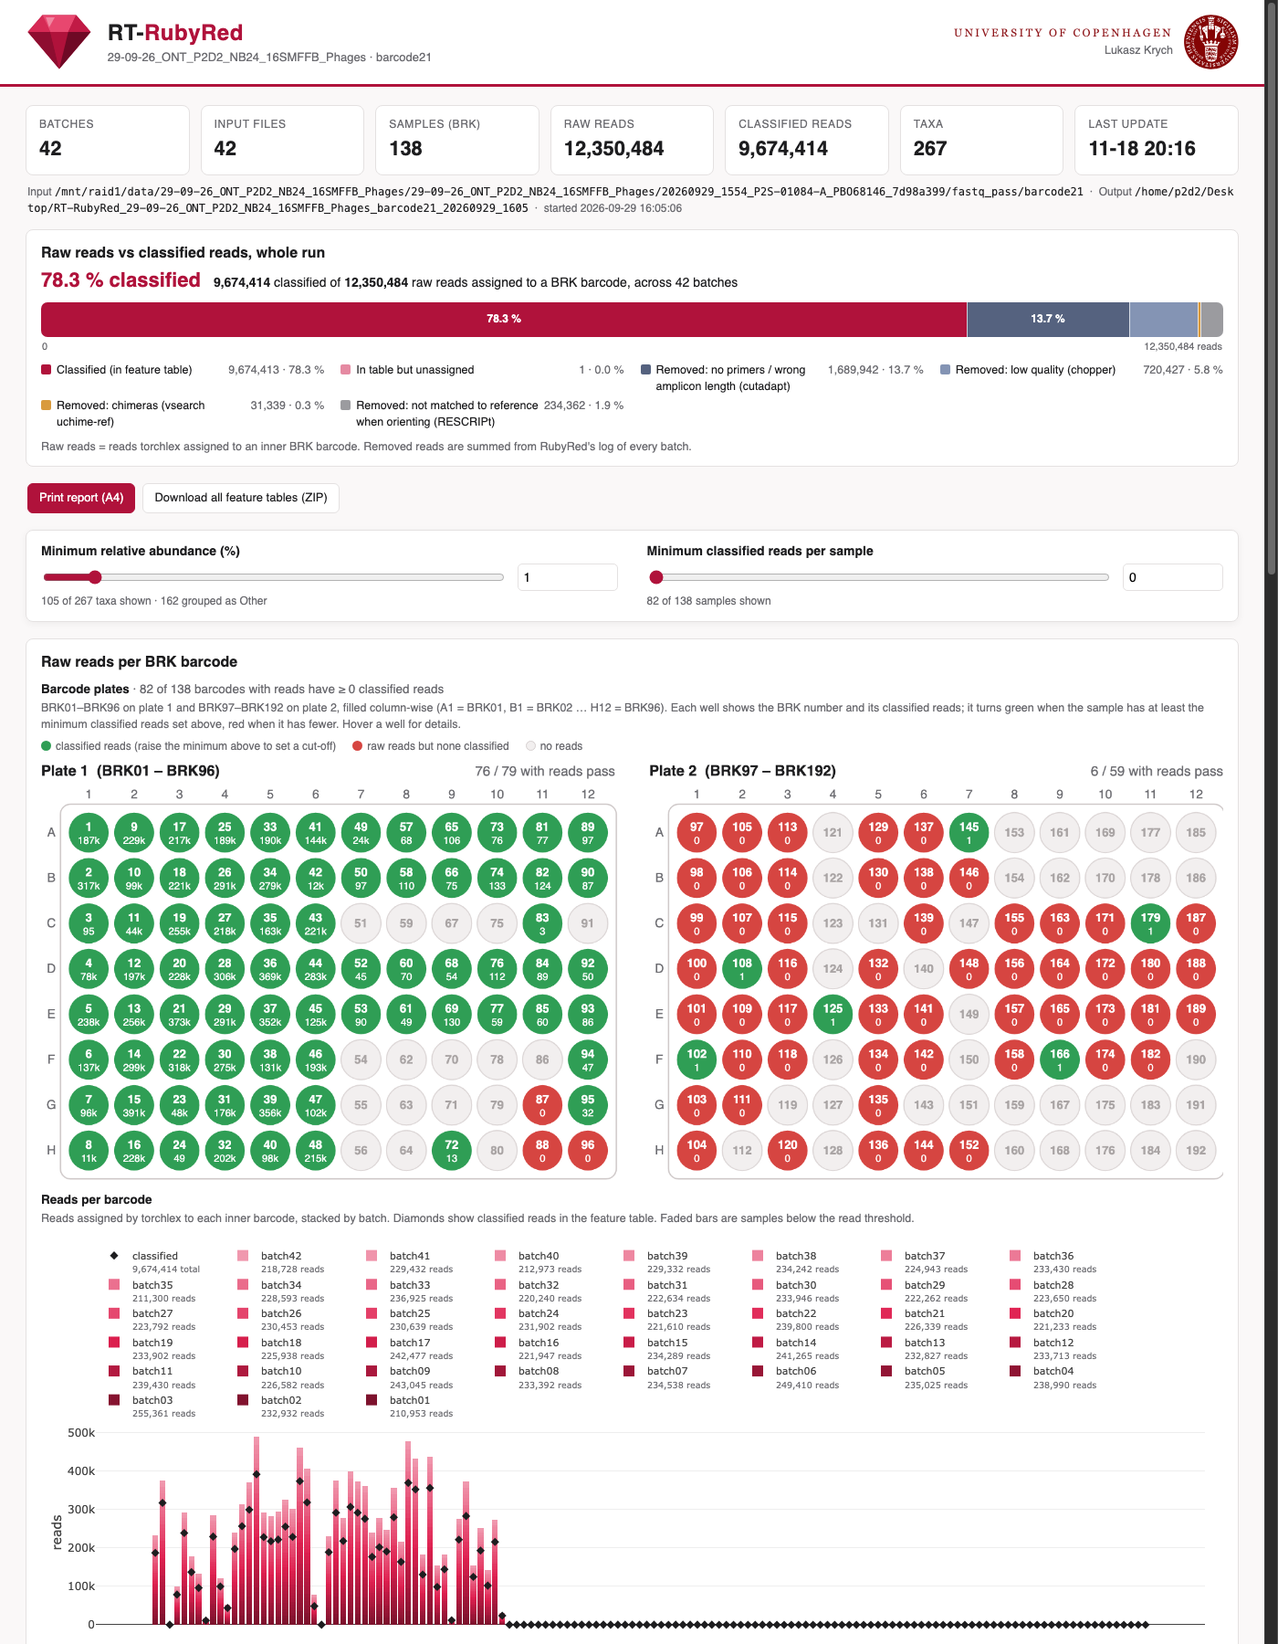
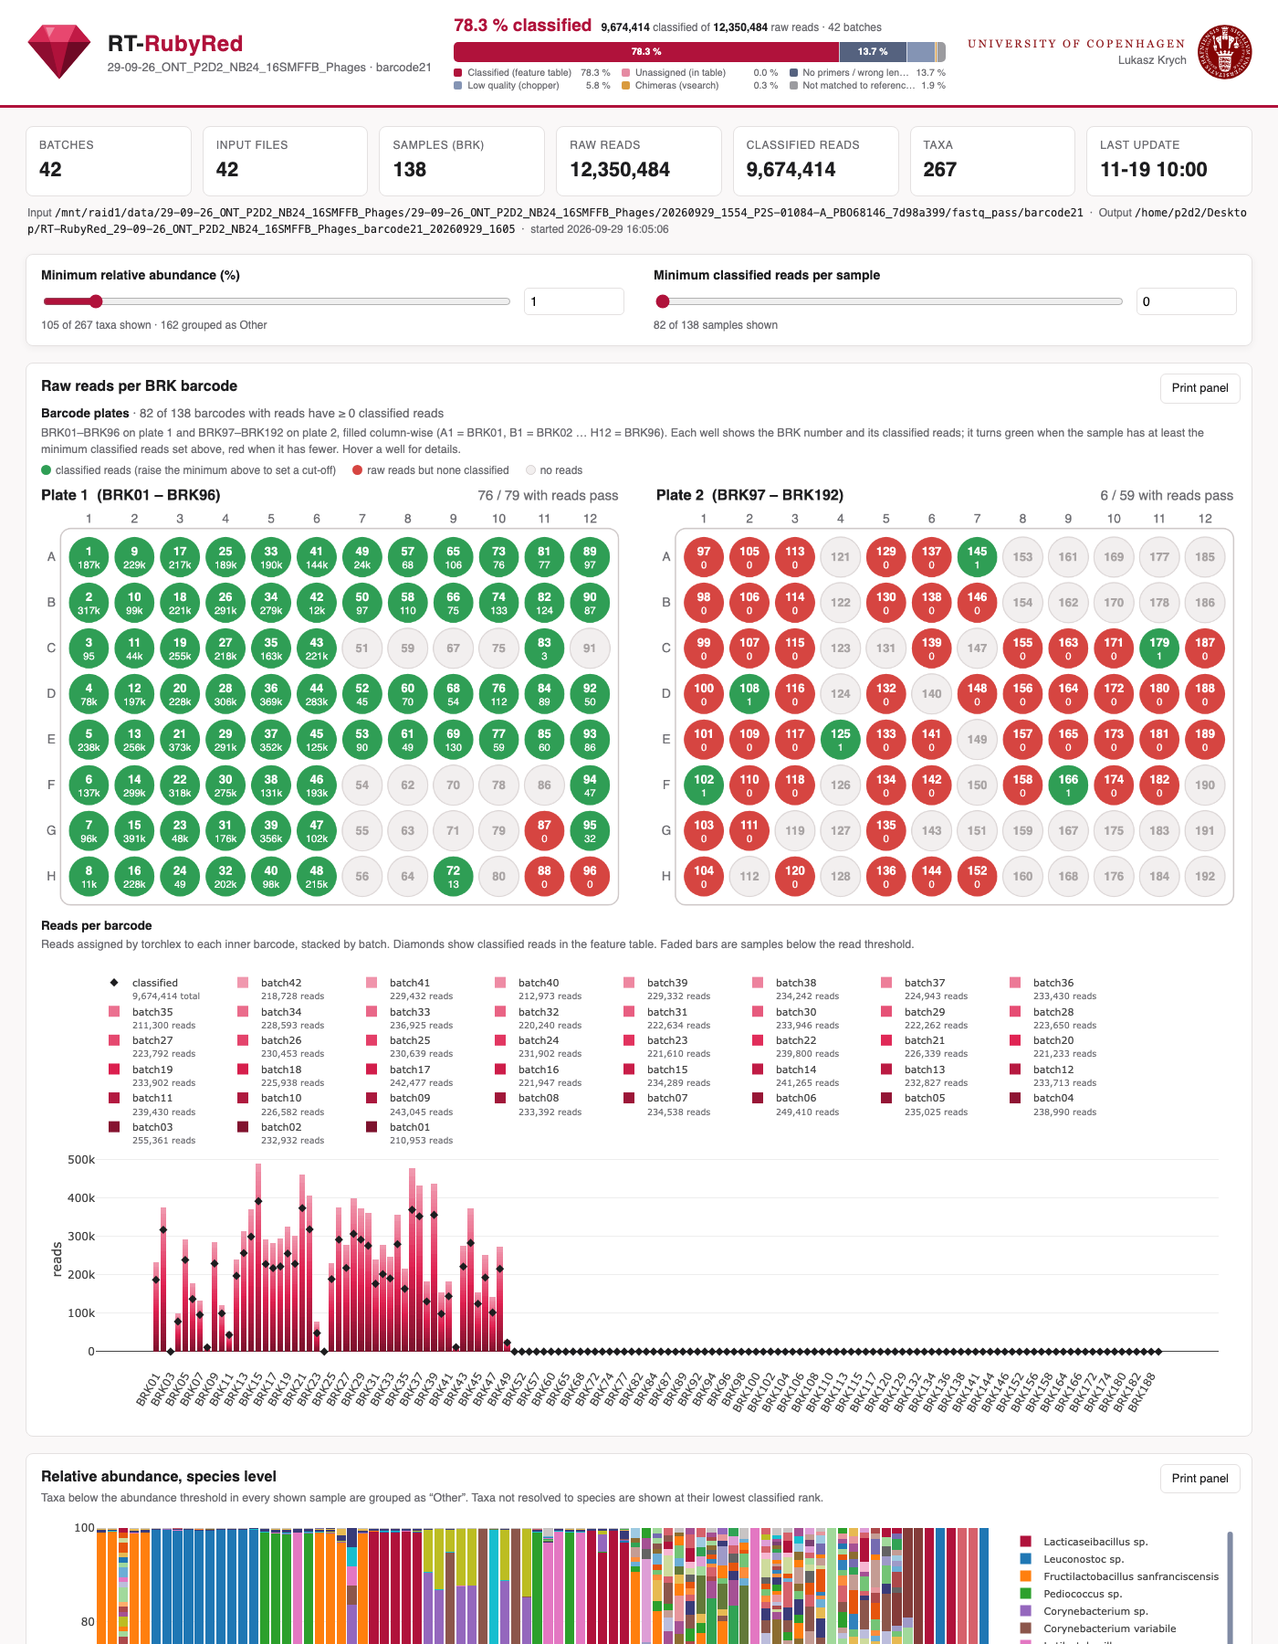
v1.1.2: read bar in header, per-panel printing, fix resize overlap and clipped plate
- raw vs classified bar moved between the RubyRed and KU logos
- 'Print panel' on every panel; 'Print full report' moved to the bottom
- charts and plates re-layout on window resize (legend rows no longer overlap)
- plate canvas wide enough for the outline (right edge was clipped)
- A4: header bar on its own row, raw panel may split between plates and chart

diff --git a/assets/report_template.html b/assets/report_template.html
@@ -20,7 +20,21 @@
   .brand h1 { margin: 0; font-size: 24px; letter-spacing: .5px; }
   .brand h1 span { color: var(--ruby); }
   .brand .sub { color: var(--muted); font-size: 13px; }
-  .ku { display: flex; align-items: center; gap: 12px; text-align: right; }
+  .ku { display: flex; align-items: center; gap: 12px; text-align: right; flex: none; }
+  .brand { flex: none; }
+  /* raw vs classified bar, squeezed between the two logos */
+  .hfate { flex: 1 1 380px; min-width: 300px; max-width: 760px; cursor: default; }
+  .hfate .top { display: flex; align-items: baseline; gap: 10px; flex-wrap: wrap; font-size: 12px; color: var(--muted); margin-bottom: 4px; }
+  .hfate .top b { color: var(--ink); font-weight: 600; }
+  .hfate .big { font-size: 19px; font-weight: 650; color: var(--ruby); font-variant-numeric: tabular-nums; }
+  .hfate .fatebar { height: 22px; border-radius: 5px; }
+  .hfate .fatebar div { font-size: 10.5px; }
+  .hfate .fateleg { grid-template-columns: repeat(auto-fill, minmax(170px, 1fr)); gap: 1px 12px; font-size: 10.5px;
+                    color: var(--muted); margin: 5px 0 0; line-height: 1.3; }
+  .hfate .fateleg i { width: 9px; height: 9px; }
+  .hfate .fateleg span:nth-child(2) { overflow: hidden; text-overflow: ellipsis; white-space: nowrap; }
+  .card { position: relative; }
+  .pbtn { position: absolute; top: 11px; right: 12px; font-size: 12px; padding: 3px 10px; }
   .ku svg { height: 60px; width: 60px; }
   .ku .uni { font-family: Georgia, "Times New Roman", serif; letter-spacing: 2.5px;
              font-size: 12px; color: var(--ku); }
@@ -63,13 +77,10 @@
   .tip .ok { color: #7fe39a; } .tip .low { color: #ff9b94; }
   .dl { display: flex; flex-wrap: wrap; gap: 8px; margin: 6px 0 12px; }
   .print-only { display: none; }
-  .fate .head { display: flex; flex-wrap: wrap; align-items: baseline; gap: 4px 14px; margin: 2px 0 8px; }
-  .fate .big { font-size: 22px; font-weight: 650; color: var(--ruby); font-variant-numeric: tabular-nums; }
   .fatebar { display: flex; height: 38px; border-radius: 7px; overflow: hidden; background: #eee; }
   .fatebar div { display: flex; align-items: center; justify-content: center; min-width: 0; overflow: hidden;
                  color: #fff; font-size: 12px; font-weight: 600; white-space: nowrap; font-variant-numeric: tabular-nums; }
   .fatebar div + div { box-shadow: inset 1px 0 0 rgba(255,255,255,.7); }
-  .fatescale { display: flex; justify-content: space-between; color: var(--muted); font-size: 11px; margin: 3px 1px 8px; }
   .fateleg { display: grid; grid-template-columns: repeat(auto-fill, minmax(250px, 1fr)); gap: 3px 18px; font-size: 12.5px; margin-bottom: 8px; }
   .fateleg div { display: flex; align-items: baseline; gap: 6px; }
   .fateleg i { flex: none; display: inline-block; width: 11px; height: 11px; border-radius: 2px; transform: translateY(1px); }
@@ -90,7 +101,7 @@
     @page { size: A4 portrait; margin: 11mm 10mm; }
     * { -webkit-print-color-adjust: exact; print-color-adjust: exact; }
     body { background: #fff; font-size: 11px; }
-    header { padding: 0 0 6px; gap: 8px; flex-wrap: nowrap; }
+    header { padding: 0 0 6px; gap: 12px; flex-wrap: nowrap; align-items: center; }
     .brand svg { height: 44px; } .ku svg { height: 42px; width: 42px; } .brand h1 { font-size: 19px; }
     main { max-width: none; padding: 8px 0 0; }
     .no-print, .controls, .modebar-container, .tip { display: none !important; }
@@ -103,7 +114,18 @@
     .card.break, .methods { break-before: page; page-break-before: always; }
     .methods { break-inside: auto; page-break-inside: auto; }
     .methods .text, .methods .text p, .methods table { font-size: 10px; }
-    .fatebar { height: 26px; } .fatebar div { font-size: 10px; } .fateleg { font-size: 10px; grid-template-columns: 1fr 1fr; }
+    header { display: grid; grid-template-columns: 1fr auto; row-gap: 5px; }
+    .hfate { grid-column: 1 / -1; grid-row: 2; max-width: none; min-width: 0; } .hfate .big { font-size: 15px; } .hfate .top { font-size: 9.5px; margin-bottom: 2px; }
+    .hfate .fatebar { height: 16px; } .hfate .fatebar div { font-size: 8.5px; }
+    .hfate .fateleg { font-size: 8px; grid-template-columns: 1fr 1fr 1fr; margin-top: 3px; }
+    /* printing one panel: header + that panel only */
+    body.print-one main > *:not(.print-target), body.print-one footer { display: none !important; }
+    body.print-one .print-target { break-before: auto !important; page-break-before: auto !important;
+                                   break-inside: auto !important; page-break-inside: auto !important; }
+    .card[data-panel=raw] { break-inside: auto; page-break-inside: auto; }
+    .js-plotly-plot, #plates, .card h2 { break-inside: avoid; page-break-inside: avoid; }
+    .card h2, .card h3 { break-after: avoid; page-break-after: avoid; }
+    body.print-one .print-target.print-filters { display: block !important; }
     #plates { width: 100% !important; max-width: none !important; }
     footer { padding: 4px; font-size: 9.5px; }
     .ku .uni { white-space: nowrap; letter-spacing: 1.5px; } .brand .sub { white-space: nowrap; }
@@ -124,6 +146,11 @@
       <div class="sub" id="runline"></div>
     </div>
   </div>
+  <div class="hfate" id="fateCard">
+    <div class="top"><span class="big" id="fatePct"></span><span id="fateHead"></span></div>
+    <div class="fatebar" id="fateBar"></div>
+    <div class="fateleg" id="fateLeg"></div>
+  </div>
   <div class="ku">
     <div>
       <div class="uni">UNIVERSITY OF COPENHAGEN</div>
@@ -136,18 +163,6 @@
 <main>
   <div class="tiles" id="tiles"></div>
   <div class="paths" id="paths"></div>
-  <div class="card fate" id="fateCard" style="margin-top:14px">
-    <h2>Raw reads vs classified reads, whole run</h2>
-    <div class="head"><span class="big" id="fatePct"></span><span id="fateHead"></span></div>
-    <div class="fatebar" id="fateBar"></div>
-    <div class="fatescale"><span>0</span><span id="fateMax"></span></div>
-    <div class="fateleg" id="fateLeg"></div>
-    <p id="fateNote"></p>
-  </div>
-  <div class="actions no-print">
-    <button class="btn primary" id="printBtn" title="Print or save as PDF, A4 portrait">Print report (A4)</button>
-    <button class="btn" data-dl="zip" title="Merged, relative, filtered and per-batch feature tables plus the sample/well summary">Download all feature tables (ZIP)</button>
-  </div>
   <div class="print-only filters" id="printFilters"></div>
 
   <div class="controls">
@@ -169,7 +184,8 @@
     </div>
   </div>
 
-  <div class="card">
+  <div class="card" data-panel="raw">
+    <button class="btn pbtn no-print" data-print title="Print only this panel (A4)">Print panel</button>
     <h2>Raw reads per BRK barcode</h2>
     <h3>Barcode plates <span style="font-weight:400;color:var(--muted)" id="plateSub"></span></h3>
     <p>BRK01&ndash;BRK96 on plate 1 and BRK97&ndash;BRK192 on plate 2, filled column-wise (A1 = BRK01, B1 = BRK02 &hellip; H12 = BRK96). Each well shows the BRK number and its classified reads; it turns green when the sample has at least the minimum classified reads set above, red when it has fewer. Hover a well for details.</p>
@@ -179,18 +195,21 @@
     <p>Reads assigned by torchlex to each inner barcode, stacked by batch. Diamonds show classified reads in the feature table. Faded bars are samples below the read threshold.</p>
     <div id="rawPlot"></div>
   </div>
-  <div class="card break">
+  <div class="card break" data-panel="bar">
+    <button class="btn pbtn no-print" data-print title="Print only this panel (A4)">Print panel</button>
     <h2>Relative abundance, species level</h2>
     <p>Taxa below the abundance threshold in every shown sample are grouped as “Other”. Taxa not resolved to species are shown at their lowest classified rank.</p>
     <div id="barPlot"></div>
     <div class="print-only plegend" id="barLegendPrint"></div>
   </div>
-  <div class="card">
+  <div class="card" data-panel="rare">
+    <button class="btn pbtn no-print" data-print title="Print only this panel (A4)">Print panel</button>
     <h2>Rarefaction curves</h2>
     <p>Expected number of taxa at each sequencing depth, computed analytically without random subsampling. Taxa below the abundance threshold are left out.</p>
     <div id="rarePlot"></div>
   </div>
   <div class="card methods" id="methods">
+    <button class="btn pbtn no-print" data-print title="Print only this panel (A4)">Print panel</button>
     <h2>Materials and methods</h2>
     <p>Ready to copy. The wet-lab protocol follows McPhillips et al. (2026); the data-analysis text is written from the settings and tool versions recorded for this run.</p>
     <div class="cite" id="mCite"></div>
@@ -202,8 +221,11 @@
     <div class="text refs" id="mRefs"></div>
   </div>
   <div class="card no-print">
-    <h2>Downloads</h2>
-    <p>Tab-separated tables, built in your browser from the data in this report. The filtered table and the sample/well summary use the current thresholds.</p>
+    <h2>Print and downloads</h2>
+    <div class="dl">
+      <button class="btn primary" id="printBtn" title="Print or save as PDF, A4 portrait">Print full report (A4)</button>
+    </div>
+    <p>Each panel above also has its own <b>Print panel</b> button. Tab-separated tables, built in your browser from the data in this report. The filtered table and the sample/well summary use the current thresholds.</p>
     <div class="dl">
       <button class="btn primary" data-dl="zip">All feature tables (ZIP)</button>
       <button class="btn" data-dl="merged">Merged feature table (counts)</button>
@@ -264,7 +286,7 @@ link(rdR, document.getElementById("rdN"), true);
 let pending = null;
 function schedule() { if (!pending) pending = requestAnimationFrame(() => { pending = null; update(); }); }
 
-const cfg = {displaylogo: false, responsive: true,
+const cfg = {displaylogo: false, responsive: false,
   toImageButtonOptions: {format: "svg", filename: `RT-RubyRed_${D.meta.run}_${D.meta.dir}`}};
 const baseLayout = {margin: {l: 60, r: 20, t: 10, b: 70}, font: {size: 12},
   paper_bgcolor: "rgba(0,0,0,0)", plot_bgcolor: "rgba(0,0,0,0)",
@@ -330,7 +352,7 @@ function update() {
   const rawW = printing ? 700 : (document.getElementById("rawPlot").clientWidth || 1000);
   const perRowL = Math.max(1, Math.floor((rawW - 60) / 96));
   const legRows = Math.ceil((D.batches.length + 1) / perRowL);
-  Plotly.react("rawPlot", rawTraces, {...baseLayout, ...PW, height: printing ? 300 : 380 + legRows * 34, barmode: "stack",
+  Plotly.react("rawPlot", rawTraces, {...baseLayout, ...PW, height: printing ? 235 : 380 + legRows * 34, barmode: "stack",
     margin: {...baseLayout.margin, t: printing ? 10 : 12 + legRows * 34},
     showlegend: !printing,
     legend: {orientation: "h", x: 0, y: 1, yanchor: "bottom", entrywidth: 96, entrywidthmode: "pixels", font: {size: 11}, valign: "top"},
@@ -386,7 +408,7 @@ function wellStatus(j) {
 const short = n => n >= 1e6 ? (n / 1e6).toFixed(n >= 1e7 ? 0 : 1) + "M" : n >= 1e4 ? Math.round(n / 1e3) + "k"
   : n >= 1e3 ? (n / 1e3).toFixed(1) + "k" : String(n);
 const PL = {left: 22, top: 44, cell: 40, gap: 30};
-PL.w = PL.left + 12 * PL.cell + 4; PL.h = PL.top + 8 * PL.cell + 6;
+PL.w = PL.left + 12 * PL.cell + 8; PL.h = PL.top + 8 * PL.cell + 6;
 function drawPlates() {
   const cv = document.getElementById("plates");
   const avail = cv.parentElement.clientWidth || 1000;
@@ -410,10 +432,10 @@ function drawPlates() {
     ctx.font = "bold 13px -apple-system, Segoe UI, Helvetica, Arial, sans-serif";
     ctx.fillText(`Plate ${p + 1}  (${brkName(first)} – ${brkName(last)})`, ox, oy + 14);
     ctx.textAlign = "right"; ctx.fillStyle = "#6b6b70"; ctx.font = "12px -apple-system, Segoe UI, Helvetica, Arial, sans-serif";
-    ctx.fillText(`${ok} / ${used} with reads pass`, ox + PL.w, oy + 14);
+    ctx.fillText(`${ok} / ${used} with reads pass`, ox + PL.w - 3, oy + 14);
     // plate outline
     ctx.strokeStyle = "#cfc9c9"; ctx.lineWidth = 1.2;
-    roundRect(ctx, ox + PL.left - 5, oy + PL.top - 5, 12 * PL.cell + 10, 8 * PL.cell + 10, 9); ctx.stroke();
+    roundRect(ctx, ox + PL.left - 5, oy + PL.top - 5, 12 * PL.cell + 10, 8 * PL.cell + 10, 9); ctx.stroke();  // ends at PL.w - 3
     ctx.fillStyle = "#6b6b70"; ctx.font = "11px -apple-system, Segoe UI, Helvetica, Arial, sans-serif"; ctx.textAlign = "center";
     for (let c = 0; c < 12; c++) ctx.fillText(String(c + 1), ox + PL.left + c * PL.cell + PL.cell / 2, oy + PL.top - 10);
     ctx.textBaseline = "middle";
@@ -469,7 +491,9 @@ document.getElementById("plates").addEventListener("mousemove", e => {
 });
 document.getElementById("plates").addEventListener("mouseleave", () => { tip.style.display = "none"; });
 let rsT = null;
-window.addEventListener("resize", () => { clearTimeout(rsT); rsT = setTimeout(drawPlates, 120); });
+// on resize recompute everything: legend rows, heights and plate layout depend on the width
+window.addEventListener("resize", () => { if (printing) return; clearTimeout(rsT); rsT = setTimeout(() => {
+  update(); ["rawPlot", "barPlot", "rarePlot"].forEach(id => Plotly.Plots.resize(id)); }, 150); });
 
 // ---- downloads (TSV built in the browser; ZIP = uncompressed "stored" archive)
 const BASE = (D.meta.merged_name || `RT-RubyRed_${D.meta.run}_${D.meta.dir}_feature_table.tsv`).replace(/_feature_table\.tsv$/, "");
@@ -574,29 +598,28 @@ document.querySelectorAll("[data-bt]").forEach(b => b.addEventListener("click", 
   const unassigned = unassignedRows.reduce((a, i) => a + M[i].reduce((x, y) => x + y, 0), 0);
   const F = D.fate || {};
   const steps = [
-    ["primer_length", "Removed: no primers / wrong amplicon length (cutadapt)", "#55627f"],
-    ["quality", "Removed: low quality (chopper)", "#8494b4"],
-    ["subsampling", "Removed: subsampling / samples with too few reads", "#b9b2aa"],
-    ["chimera", "Removed: chimeras (vsearch uchime-ref)", "#d99a3d"],
-    ["unmatched", "Removed: not matched to reference when orienting (RESCRIPt)", "#9b9b9f"]];
-  const segs = [["Classified (in feature table)", cls - unassigned, "#b0123b"]];
-  if (unassigned) segs.push(["In table but unassigned", unassigned, "#e58aa2"]);
+    ["primer_length", "No primers / wrong length (cutadapt)", "#55627f"],
+    ["quality", "Low quality (chopper)", "#8494b4"],
+    ["subsampling", "Subsampling / too few reads", "#b9b2aa"],
+    ["chimera", "Chimeras (vsearch)", "#d99a3d"],
+    ["unmatched", "Not matched to reference (RESCRIPt)", "#9b9b9f"]];
+  const segs = [["Classified (feature table)", cls - unassigned, "#b0123b"]];
+  if (unassigned) segs.push(["Unassigned (in table)", unassigned, "#e58aa2"]);
   steps.forEach(([k, lab, c]) => { if (F[k]) segs.push([lab, F[k], c]); });
   Object.keys(F).filter(k => !steps.some(s => s[0] === k)).forEach(k => segs.push(["Removed: " + k, F[k], "#c9c3c3"]));
-  if (D.failed_raw) segs.push(["Not processed (RubyRed failed for the batch)", D.failed_raw, "#6b6b70"]);
+  if (D.failed_raw) segs.push(["Not processed (batch failed)", D.failed_raw, "#6b6b70"]);
   const accounted = segs.reduce((a, s) => a + s[1], 0);
   const rest = raw - accounted;
-  if (rest > 0) segs.push([Object.keys(F).length ? "Other / not accounted for" : "Not classified (removed by RubyRed filters)", rest, "#d9d4d4"]);
+  if (rest > 0) segs.push([Object.keys(F).length ? "Other / not accounted for" : "Removed by RubyRed filters", rest, "#d9d4d4"]);
   const tot = Math.max(raw, accounted) || 1, pct = v => 100 * v / tot;
   document.getElementById("fatePct").textContent = (raw ? (100 * cls / raw).toFixed(1) : "0") + " % classified";
   document.getElementById("fateHead").innerHTML =
-    `<b>${fmt(cls)}</b> classified of <b>${fmt(raw)}</b> raw reads assigned to a BRK barcode, across ${D.batches.length} batch${D.batches.length === 1 ? "" : "es"}`;
-  document.getElementById("fateMax").textContent = fmt(tot) + " reads";
+    `<b>${fmt(cls)}</b> classified of <b>${fmt(raw)}</b> raw reads · ${D.batches.length} batch${D.batches.length === 1 ? "" : "es"}`;
   document.getElementById("fateBar").innerHTML = segs.filter(s => s[1] > 0).map(([lab, v, c]) =>
-    `<div style="width:${pct(v)}%;background:${c};${c === "#d9d4d4" || c === "#b9b2aa" ? "color:#333" : ""}" title="${esc(lab)}: ${fmt(v)} reads (${pct(v).toFixed(1)} %)">${pct(v) >= 7 ? pct(v).toFixed(1) + " %" : ""}</div>`).join("");
+    `<div style="width:${pct(v)}%;background:${c};${c === "#d9d4d4" || c === "#b9b2aa" ? "color:#333" : ""}" title="${esc(lab)}: ${fmt(v)} reads (${pct(v).toFixed(1)} %)">${pct(v) >= 9 ? pct(v).toFixed(1) + " %" : ""}</div>`).join("");
   document.getElementById("fateLeg").innerHTML = segs.filter(s => s[1] > 0).map(([lab, v, c]) =>
-    `<div><i style="background:${c}"></i><span>${esc(lab)}</span><span class="n">${fmt(v)} · ${pct(v).toFixed(1)} %</span></div>`).join("");
-  document.getElementById("fateNote").textContent = Object.keys(F).length
+    `<div title="${esc(lab)}: ${fmt(v)} reads"><i style="background:${c}"></i><span>${esc(lab)}</span><span class="n">${pct(v).toFixed(1)} %</span></div>`).join("");
+  document.getElementById("fateCard").title = Object.keys(F).length
     ? "Raw reads = reads torchlex assigned to an inner BRK barcode. Removed reads are summed from RubyRed's log of every batch."
     : "Raw reads = reads torchlex assigned to an inner BRK barcode. The per-step breakdown is not available for this run (batch logs not found).";
 })();
@@ -699,7 +722,23 @@ window.addEventListener("beforeprint", () => setPrint(true));
 window.addEventListener("afterprint", () => setPrint(false));
 const printMQ = window.matchMedia("print");
 if (printMQ.addEventListener) printMQ.addEventListener("change", e => setPrint(e.matches));
-document.getElementById("printBtn").addEventListener("click", () => { setPrint(true); setTimeout(() => window.print(), 60); });
+function doPrint(card) {
+  document.body.classList.toggle("print-one", !!card);
+  document.querySelectorAll(".print-target").forEach(e => e.classList.remove("print-target"));
+  if (card) {
+    card.classList.add("print-target");
+    // chart panels carry the active filters with them
+    if (card.dataset.panel && card.dataset.panel !== "methods") document.getElementById("printFilters").classList.add("print-target", "print-filters");
+  }
+  setPrint(true); setTimeout(() => window.print(), 80);
+}
+function clearPrintOne() {
+  document.body.classList.remove("print-one");
+  document.querySelectorAll(".print-target").forEach(e => e.classList.remove("print-target", "print-filters"));
+}
+window.addEventListener("afterprint", clearPrintOne);
+document.getElementById("printBtn").addEventListener("click", () => doPrint(null));
+document.querySelectorAll("[data-print]").forEach(b => b.addEventListener("click", () => doPrint(b.closest(".card"))));
 if (printMQ.matches) printing = true;
 update();
 </script>

diff --git a/rt_rubyred.py b/rt_rubyred.py
@@ -27,7 +27,7 @@ TOOL_DIR = os.path.dirname(os.path.realpath(__file__))
 sys.path.insert(0, TOOL_DIR)
 import report  # noqa: E402
 
-VERSION = "1.1.1"
+VERSION = "1.1.2"
 # Default: the database that ships with RubyRed itself (resources/classifiers, via Git LFS),
 # i.e. whatever RubyRed's own script points to. --classifier DIR overrides it.
 DEFAULT_CLASSIFIER = "default"

diff --git a/README.md b/README.md
@@ -35,7 +35,7 @@ RT-RubyRed runs the [RubyRed](https://github.com/reillyeo/RubyRed) pipeline *whi
 - **Batch processing:** new files → [torchlex](https://nanoporetech.com/resource-centre/torchlex-method-real-time-demultiplexing-barcoded-oxford-nanopore-reads) demultiplexing on the inner barcodes (`BRK01`–`BRK192`) → RubyRed classification → one feature table per batch.
 - **Merged feature table** of all batches, updated after every batch.
 - **Interactive HTML report** in a single offline file:
-  - raw vs classified reads for the whole run, with the reads removed at each RubyRed step
+  - raw vs classified reads for the whole run in the page header, with the reads removed at each RubyRed step
   - two 96-well barcode plates (BRK01–BRK192) coloured by the read threshold, and raw reads per barcode
   - species-level relative abundance
   - rarefaction curves
@@ -203,7 +203,7 @@ A single self-contained HTML file (plotly.js is embedded, so it works offline). 
 All plots update when either slider moves, and every plot can be downloaded as SVG.
 
 - **Downloads** (built in the browser, no server needed): *Download all feature tables (ZIP)* holds the merged feature table (counts), relative abundance (%), a table filtered with the current thresholds, a sample/well summary (plate, well, raw and classified reads, pass/below, top taxon) and every per-batch table (`feature_tables/feature_table_batchNN.tsv`). Each table can also be downloaded on its own.
-- **Print report (A4):** prints or saves a PDF on A4 portrait, with the current thresholds written at the top, both plates side by side and the species legend printed under the barchart.
+- **Print panel / Print full report (A4):** each panel has its own *Print panel* button that prints only that panel (with the header and the current thresholds); *Print full report* sits at the bottom with the downloads. Both print A4 portrait, with both plates side by side and the species legend printed under the barchart.
 
 ## Species-level classifier (database)
 
